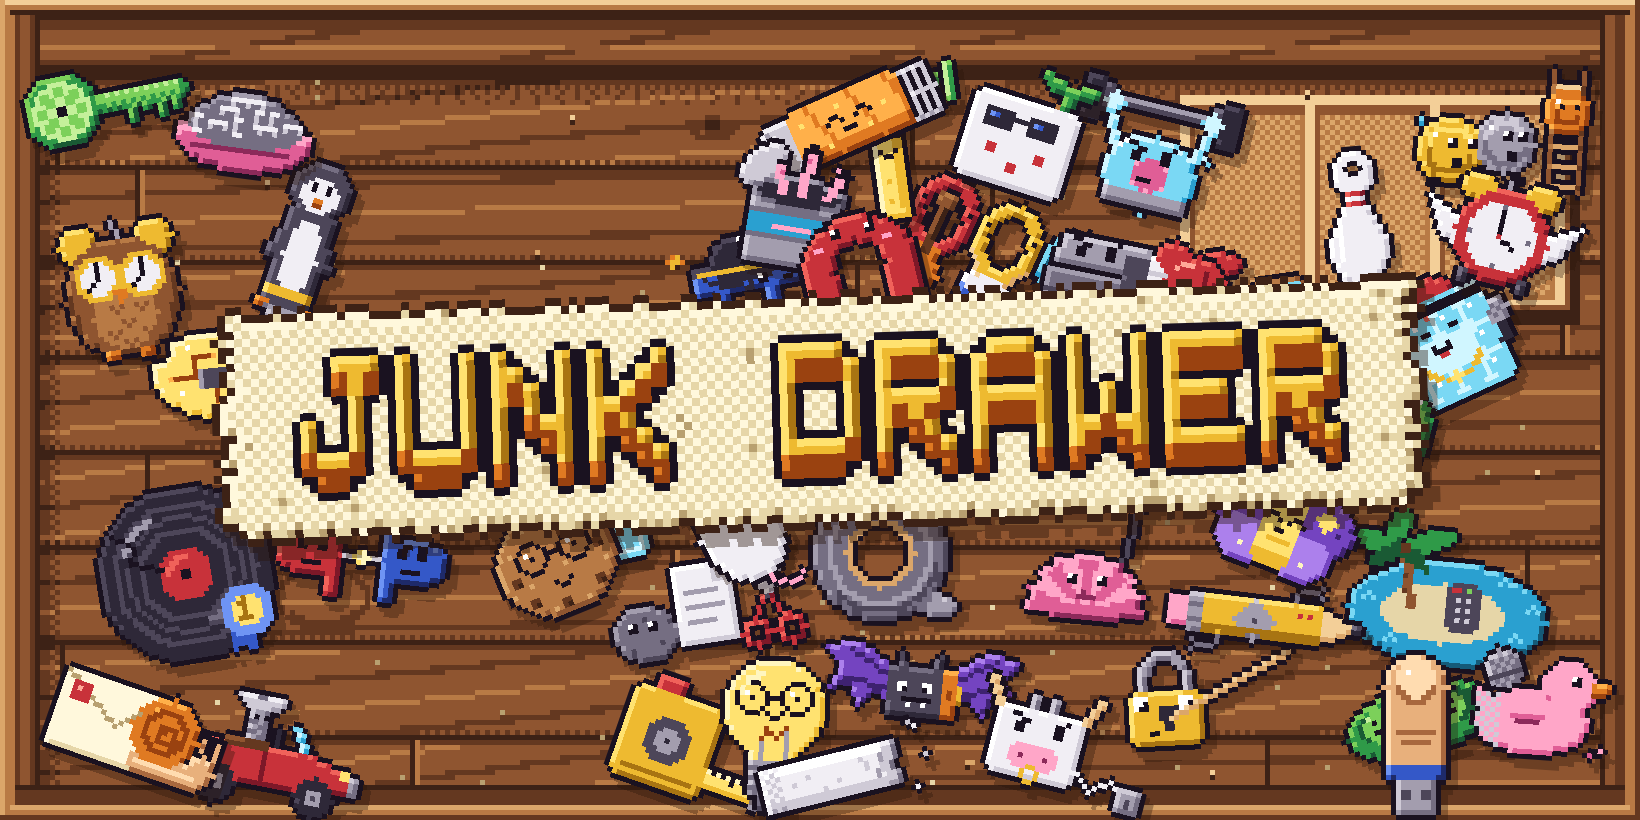
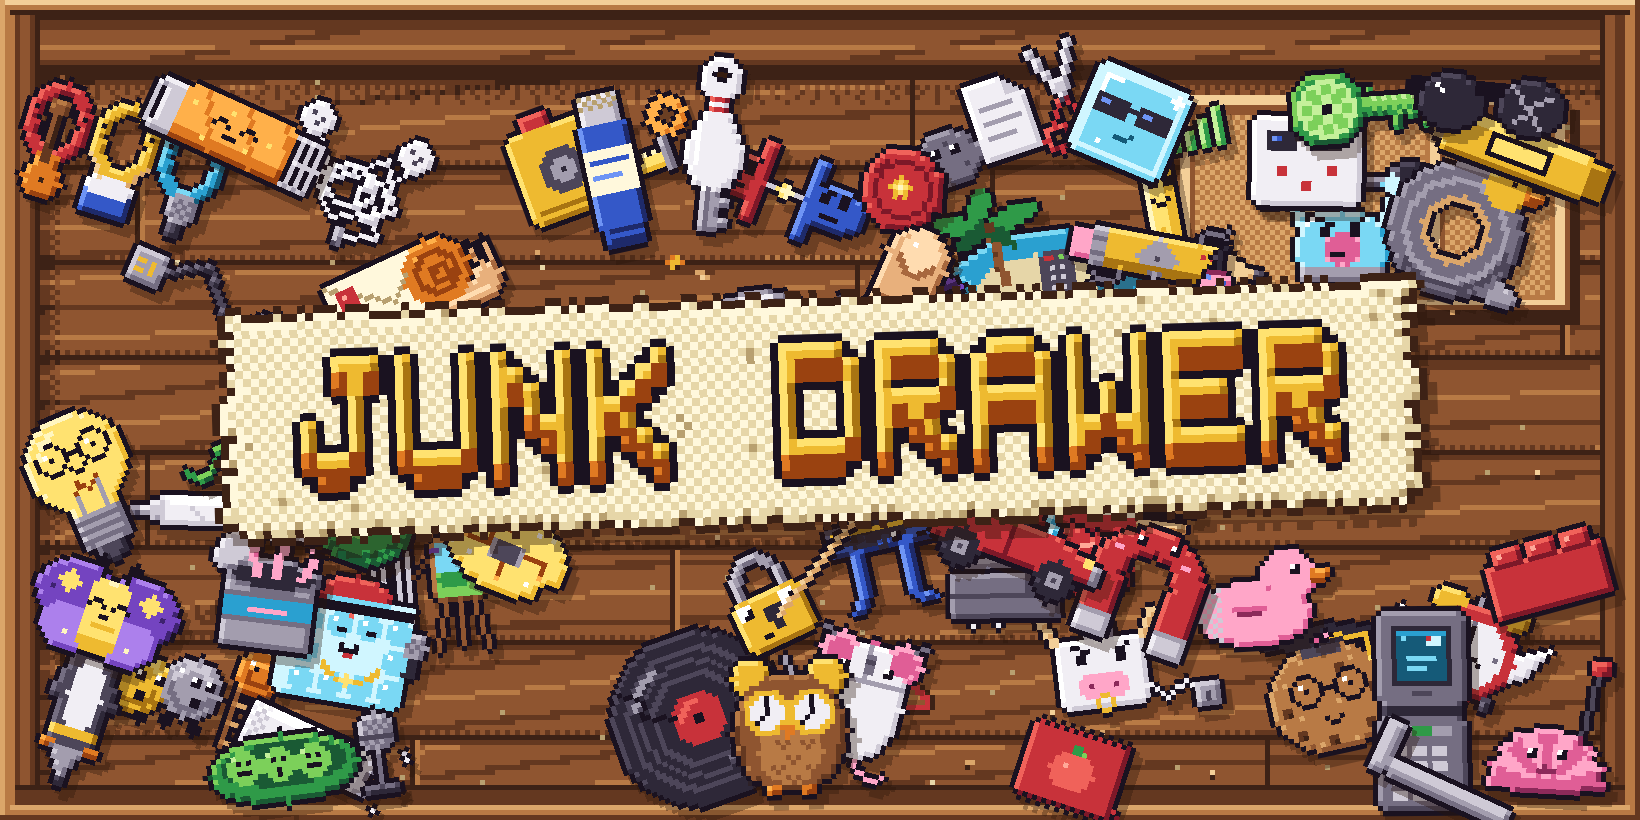
Junk Drawer: 20 new random items; Pinball Workshop: play 20% slower

diff --git a/junkdrawer.html b/junkdrawer.html
@@ -824,6 +824,142 @@ JD.def({ id: 'worms', name: 'Can of Worms', desc: 'Do not open. Oh. Oh no. Too l
   g.p(7, 4, 'k'); g.p(8, 4, 'k'); g.p(13, 1, 'k'); g.p(14, 1, 'k'); g.p(20, 5, 'k'); g.p(21, 5, 'k'); g.p(13, 3, 'f'); g.p(8, 6, 'f');
 });
 }
+// ===== spr_f.js =====
+{
+const JD = window.JD, K = JD.K;
+JD.def({ id: 'brokenpencil', name: 'Broken Apple Pencil', desc: 'Snapped clean in half. Still says it is 100% charged. Both halves.', w: 46, h: 14, sfx: 'zap', fx: 'spark', mat: 'plastic' }, g => {
+  g.poly([7, 2.5, 7, 8.5, 1, 6, 1, 5], '5'); g.r(0, 5, 2, 2, '3');
+  g.r(7, 3, 15, 6, '6'); g.p(22, 3, '6'); g.p(22, 5, '6'); g.p(23, 4, '6'); g.p(22, 7, '6');
+  g.rr(27, 6, 18, 6, '6'); g.p(26, 7, '6'); g.p(26, 9, '6'); g.p(27, 6, '.'); g.p(27, 11, '.');
+  g.shade();
+  g.r(8, 4, 13, 1, 'w'); g.r(28, 7, 15, 1, 'w'); g.r(41, 6, 1, 6, '4');
+  g.l(23, 5, 25, 3, 'o'); g.l(23, 6, 25, 7, 'u'); g.l(25, 8, 26, 8, 'o'); g.l(24, 10, 26, 10, 'r');
+  g.l(31, 8, 33, 10, '4'); g.l(12, 5, 14, 7, '5');
+});
+JD.def({ id: 'soysauce', name: 'Soy Sauce Packet', desc: 'You have 41 of these. You have never once used one. You will keep all 41 forever.', w: 28, h: 18, sfx: 'squish', mat: 'soft', txt: 1 }, g => {
+  g.r(1, 1, 26, 16, 'N'); g.r(1, 0, 26, 1, 'n'); g.r(1, 17, 26, 1, 'n');
+  g.shade();
+  for (let x = 1; x < 27; x += 2) { g.p(x, 0, '.'); g.p(x, 17, '.'); }
+  g.r(5, 5, 18, 8, 'r'); g.r(5, 5, 18, 1, 'i'); g.txt('SOY', 8, 7, 'w');
+  g.p(27, 4, '.'); g.p(26, 4, '.'); g.r(3, 2, 6, 1, 'h');
+});
+JD.def({ id: 'candle', name: 'Birthday Candle', desc: 'Used once, at a 7th birthday party. Kept "just in case". The case has never come.', w: 10, h: 32, sfx: 'puff', mat: 'soft' }, g => {
+  for (let y = 7; y < 31; y++) for (let x = 3; x < 7; x++) g.p(x, y, (x + y) % 5 < 2 ? 'b' : 'g');
+  g.r(2, 9, 1, 3, 'g'); g.r(7, 8, 1, 2, 'g'); g.p(7, 10, 'g');
+  g.shade();
+  g.r(3, 7, 4, 1, 'F'); g.l(5, 6, 5, 3, '1'); g.p(6, 2, '1'); g.p(4, 4, '2');
+});
+JD.def({ id: 'flipphone', name: 'Flip Phone', desc: 'Battery: 1%. Has been at 1% for 15 years. Holds three texts that all say "ok".', w: 20, h: 40, sfx: 'beep', mat: 'plastic' }, g => {
+  g.rr(1, 0, 18, 19, '3'); g.r(2, 19, 16, 2, '1'); g.rr(1, 21, 18, 19, '3');
+  g.shade();
+  g.r(4, 3, 12, 12, '1'); g.r(5, 4, 10, 10, 'C'); g.r(5, 4, 10, 1, 'c'); g.p(6, 5, 'x');
+  g.r(11, 5, 3, 2, 'X'); g.p(11, 5, 'r'); g.r(7, 9, 6, 1, 'x'); g.r(7, 11, 4, 1, 'x');
+  g.r(8, 16, 4, 1, '2');
+  for (let r = 0; r < 4; r++) for (let c = 0; c < 3; c++) g.r(4 + c * 4, 27 + r * 3, 3, 2, '5');
+  g.r(4, 23, 12, 2, '4'); g.r(8, 23, 4, 2, 'e');
+});
+JD.def({ id: 'earbuds', name: 'Tangled Earbuds', desc: 'Nobody tangled these. They tangled themselves, in the dark, on purpose.', w: 30, h: 28, sfx: 'scratch', mat: 'plastic' }, g => {
+  const pts = [[5, 7], [10, 15], [20, 8], [24, 18], [12, 22], [6, 15], [17, 12], [22, 24], [15, 25]];
+  for (let i = 1; i < pts.length; i++) g.l(pts[i - 1][0], pts[i - 1][1], pts[i][0], pts[i][1], '6');
+  g.ring(14, 15, 5, 4, '6'); g.ring(19, 17, 3, 4, '6'); g.l(25, 9, 18, 15, '6');
+  g.r(14, 24, 2, 4, '4'); g.p(14, 27, '2');
+  g.o(4, 4, 3, 3, '6'); g.o(25, 6, 3, 3, '6');
+  g.shade();
+  g.p(3, 3, '2'); g.p(5, 4, '2'); g.p(4, 5, '2'); g.p(24, 5, '2'); g.p(26, 6, '2'); g.p(25, 7, '2');
+});
+JD.def({ id: 'allenkey', name: 'Allen Key', desc: 'Left over from a bookshelf. The bookshelf is fine. Probably. Do not lean on it.', w: 30, h: 12, sfx: 'click', mat: 'metal' }, g => {
+  g.r(0, 0, 4, 11, '4'); g.r(3, 7, 27, 4, '4'); g.p(3, 10, '.');
+  g.shade();
+  g.r(1, 1, 1, 8, '5'); g.r(4, 8, 25, 1, '5');
+});
+JD.def({ id: 'twisttie', name: 'Twist Tie', desc: 'Came off a loaf of bread years ago. Has outlived the bread by about 2,500 sandwiches.', w: 24, h: 10, sfx: 'click', mat: 'paper' }, g => {
+  for (let x = 0; x < 24; x++) { const y = 4 + Math.round(Math.sin(x * 0.55) * 2.5); g.p(x, y, 'e'); g.p(x, y + 1, 'e'); }
+  g.shade();
+  for (let x = 2; x < 24; x += 5) { const y = 4 + Math.round(Math.sin(x * 0.55) * 2.5); g.p(x, y, 'l'); }
+});
+JD.def({ id: 'bottlecap', name: 'Bottle Cap', desc: 'Kept because it might be worth something one day. It will not be.', w: 18, h: 18, sfx: 'click', mat: 'metal' }, g => {
+  g.o(8.5, 8.5, 8, 8, 'r');
+  for (let i = 0; i < 21; i++) { const a = i * 6.2832 / 21; g.p(8.5 + Math.cos(a) * 8.4, 8.5 + Math.sin(a) * 8.4, '.'); }
+  g.shade();
+  g.ring(8.5, 8.5, 5.5, 5.5, 'R'); g.d('..y../.yzy./yzZzy/.yzy./.y.y.', 6, 6);
+  g.l(3, 5, 5, 3, 'R');
+});
+JD.def({ id: 'giftcard', name: 'Gift Card', desc: 'Balance: $0.37. Too much to throw away. Too little to buy anything. Trapped forever.', w: 32, h: 20, sfx: 'ding', mat: 'plastic', txt: 1 }, g => {
+  g.rr(0, 0, 32, 20, 'p');
+  g.shade();
+  g.r(0, 4, 32, 3, '1'); g.r(3, 11, 20, 7, 'P'); g.txt('$0', 4, 12, 'Z'); g.r(12, 15, 2, 2, 'Z'); g.txt('37', 15, 12, 'Z');
+  g.r(26, 9, 3, 9, 'g'); g.r(23, 12, 9, 3, 'g'); g.p(25, 8, 'g'); g.p(29, 8, 'g'); g.p(27, 13, 'f');
+});
+JD.def({ id: 'manual', name: 'Instruction Manual', desc: 'For a blender you gave away years ago. Step 7 just says "good luck".', w: 30, h: 34, sfx: 'flap', mat: 'paper', txt: 1 }, g => {
+  g.r(1, 1, 28, 32, 'd'); g.r(24, 1, 5, 5, '.'); g.poly([24, 1, 24, 6, 29, 6], 'a');
+  g.shade();
+  g.txt('MANUAL', 3, 3, '1');
+  g.r(4, 10, 22, 11, 'a'); g.ring(13, 15, 4, 3, '3'); g.r(11, 17, 4, 3, '3'); g.l(19, 13, 23, 13, 'r'); g.p(22, 12, 'r'); g.p(22, 14, 'r');
+  for (let y = 23; y < 32; y += 2) g.r(4, y, y === 31 ? 12 : 22, 1, '4');
+});
+}
+// ===== spr_g.js =====
+{
+const JD = window.JD, K = JD.K;
+JD.def({ id: 'highlighter', name: 'Dried-Out Highlighter', desc: 'Highlights nothing. Last highlighted something important in 6th grade. Nobody remembers what.', w: 40, h: 12, sfx: 'click', mat: 'plastic' }, g => {
+  g.poly([7, 3, 7, 9, 1, 7, 1, 5], 'A'); g.r(6, 2, 30, 9, 'y'); g.r(36, 3, 4, 7, 'Y');
+  g.shade();
+  g.r(15, 4, 13, 5, 'k'); g.r(16, 5, 11, 3, 'z'); g.r(7, 3, 28, 1, 'z'); g.p(2, 6, 'S');
+});
+JD.def({ id: 'mysterycable', name: 'Mystery Cable', desc: 'Fits nothing you own. Fits nothing anyone owns. You will need it the second you throw it away.', w: 42, h: 20, sfx: 'hum', mat: 'plastic' }, g => {
+  g.l2(6, 9, 14, 4, '2'); g.l2(14, 4, 22, 14, '2'); g.l2(22, 14, 30, 8, '2'); g.l2(30, 8, 35, 12, '2');
+  g.r(0, 6, 7, 7, '4'); g.poly([35, 9, 35, 16, 41, 15, 41, 10], '5');
+  g.shade();
+  g.r(1, 8, 2, 1, 'y'); g.r(4, 8, 1, 3, 'y'); g.r(1, 10, 2, 1, 'y'); g.p(38, 12, '2'); g.p(38, 13, '2');
+});
+JD.def({ id: 'toybrick', name: 'Toy Brick', desc: 'Will find your bare foot at 3 a.m. It has been waiting for this its whole life.', w: 24, h: 16, sfx: 'dice', mat: 'plastic' }, g => {
+  g.r(0, 5, 24, 11, 'r'); [2, 9, 16].forEach(x => g.r(x, 2, 6, 3, 'r'));
+  g.shade();
+  [2, 9, 16].forEach(x => { g.r(x, 5, 6, 1, 'R'); g.p(x + 1, 3, 'I'); });
+});
+JD.def({ id: 'ketchup', name: 'Ketchup Packet', desc: 'Expired a long time ago. Squeeze it and find out what happens. (Do not.)', w: 22, h: 16, sfx: 'squish', mat: 'soft' }, g => {
+  g.r(1, 1, 20, 14, 'r'); g.r(1, 0, 20, 1, 'R'); g.r(1, 15, 20, 1, 'R');
+  g.shade();
+  for (let x = 1; x < 21; x += 2) { g.p(x, 0, '.'); g.p(x, 15, '.'); }
+  g.o(10.5, 8, 4, 3.5, 'i'); g.p(9, 7, 'I'); g.r(10, 3, 2, 2, 'e'); g.p(12, 4, 'l');
+  g.p(21, 13, 'r'); g.p(22, 14, 'R');
+});
+JD.def({ id: 'gluestick', name: 'Glue Stick', desc: 'The cap went missing ages ago. The glue is now a rock. A slightly sticky rock.', w: 14, h: 34, sfx: 'boop', mat: 'plastic' }, g => {
+  g.r(3, 3, 8, 7, '5'); g.r(2, 9, 10, 21, 'b'); g.r(3, 30, 8, 4, 'B');
+  g.shade();
+  g.dith(3, 3, 8, 3, 'A'); g.r(2, 14, 10, 9, 'd'); g.r(3, 16, 8, 1, 'b'); g.r(3, 19, 6, 1, 'v');
+  g.r(3, 31, 8, 1, 'b');
+});
+JD.def({ id: 'chopsticks', name: 'Chopsticks', desc: 'Still in the wrapper. Saved for the day you finally learn how to use them.', w: 46, h: 12, sfx: 'click', mat: 'wood' }, g => {
+  g.r(0, 3, 46, 2, 'j'); g.r(4, 7, 40, 2, 'j');
+  g.r(12, 1, 22, 10, 'r');
+  g.shade();
+  g.r(12, 4, 22, 3, 'd'); for (let x = 14; x < 33; x += 3) g.p(x, 5, 'r');
+  g.r(0, 3, 12, 1, 'J'); g.r(34, 3, 12, 1, 'J');
+});
+JD.def({ id: 'sunglasses', name: 'Broken Sunglasses', desc: 'Missing one arm. One cracked lens. Still cooler than you.', w: 32, h: 14, sfx: 'click', mat: 'glass' }, g => {
+  g.o(8, 7, 6, 5, '1'); g.o(24, 7, 6, 5, '1'); g.r(13, 4, 6, 2, 'k'); g.r(0, 4, 3, 2, 'k');
+  g.shade();
+  g.p(5, 4, 'w'); g.p(6, 5, 'w'); g.p(21, 4, 'w');
+  g.l(20, 3, 26, 11, '4'); g.l(23, 7, 28, 5, '4'); g.l(24, 8, 21, 10, '4');
+});
+JD.def({ id: 'googlyeye', name: 'Googly Eye', desc: 'Fell off a craft project. Has seen things. Will not say what.', w: 10, h: 10, sfx: 'boing', mat: 'plastic', hidden: 1 }, g => {
+  g.o(4.5, 4.5, 4.5, 4.5, '6');
+  g.shade();
+  g.o(5.5, 6, 2, 2, 'k'); g.p(5, 5, 'w');
+});
+JD.def({ id: 'safetypin', name: 'Safety Pin', desc: 'Holding something together, somewhere. In spirit.', w: 20, h: 8, sfx: 'click', mat: 'metal', hidden: 1 }, g => {
+  g.l(2, 2, 16, 2, '5'); g.l(2, 5, 16, 5, '5'); g.ring(2, 3.5, 1.5, 1.5, '5');
+  g.r(15, 1, 5, 6, '4');
+  g.shade();
+  g.p(17, 2, '6');
+});
+JD.def({ id: 'tinyscrew', name: 'Tiny Screw', desc: 'Came out of something important. Nobody knows what. Everything still works. For now.', w: 8, h: 14, sfx: 'click', mat: 'metal', hidden: 1 }, g => {
+  g.r(0, 0, 8, 3, '4'); g.r(2, 3, 4, 9, '5'); g.r(3, 12, 2, 2, '4');
+  g.shade();
+  g.r(3, 0, 2, 2, '2'); for (let y = 4; y < 12; y += 2) g.r(2, y, 4, 1, '3');
+});
+}
 // ===== audio.js =====
 {
 const JD = window.JD;

diff --git a/pinball.html b/pinball.html
@@ -1225,7 +1225,8 @@ GM.tick = (dt) => {
   }
   if (st.tiltM > 0) st.tiltM = Math.max(0, st.tiltM - dt * 0.55);
 };
-GM.update = (ft) => { if (!GM.w || GM.paused) return 0; const r = PH.advance(GM.w, ft, GM.acc); GM.acc = r.acc; return r.n; };
+GM.SPEED = 0.8;
+GM.update = (ft) => { if (!GM.w || GM.paused) return 0; const r = PH.advance(GM.w, ft * GM.SPEED, GM.acc); GM.acc = r.acc; return r.n; };
 GM.add = (pts, x, y, label) => { if (!pts || !GM.st || GM.st.phase === 'over') return; GM.st.score += pts; PB.emit('score', { pts, x, y, label }); };
 GM.flip = (side, down) => {
   const w = GM.w; if (!w) return;
